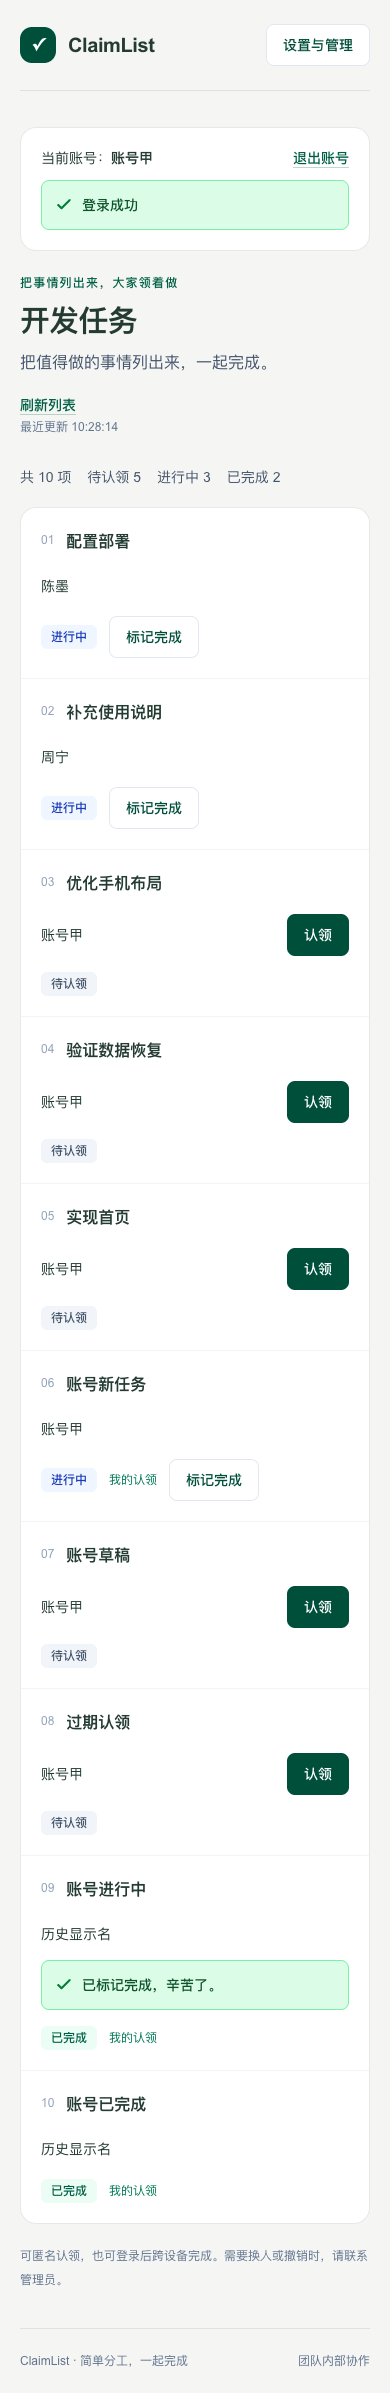
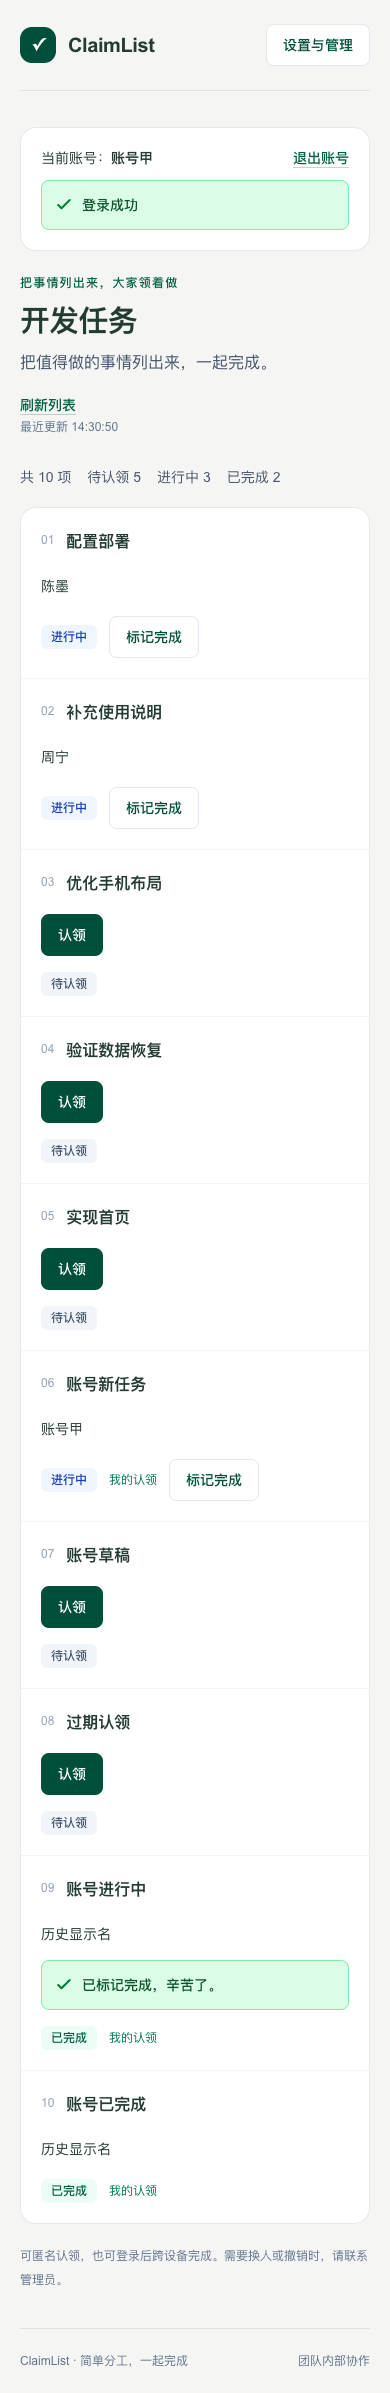
fix: 修复登录用户后待认领任务也显示自己的名字可能产生误解的问题

diff --git a/src/components/public-list.tsx b/src/components/public-list.tsx
@@ -212,11 +212,7 @@ export function PublicList() {
                           void act("claim", item.id);
                         }}
                       >
-                        {data.participant ? (
-                          <p className="min-w-0 flex-1 self-center text-sm break-words">
-                            {data.participant.name}
-                          </p>
-                        ) : (
+                        {!data.participant && (
                           <input
                             aria-label={`认领 ${item.title} 的姓名`}
                             placeholder="填写你的姓名"

diff --git a/docs/pages-and-states.md b/docs/pages-and-states.md
@@ -23,16 +23,18 @@
 
 列表先展示未完成条目，再展示已完成条目，两组内各按录入顺序排列。标记完成成功后立即沉入底部的已完成区域；管理员重新打开或释放认领后，条目回到未完成区域的原录入位置。管理页现有条目使用同一排序。
 
-| 状态                   | 页面显示                                         | 可执行的操作                         |
-| ---------------------- | ------------------------------------------------ | ------------------------------------ |
-| 加载中                 | 加载提示                                         | 等待或失败后重试，不提前显示空清单   |
-| 无条目                 | “暂无条目，管理员可通过右上角设置添加”           | 打开设置                             |
-| 待认领                 | 标题、匿名时姓名输入框／登录时账号姓名、“待认领” | 匿名填写姓名／登录后直接确认认领     |
-| 进行中且符合完成条件   | 标题、认领人、“进行中”                           | 标记完成                             |
-| 进行中但不符合完成条件 | 标题、认领人、“进行中”                           | 仅查看，不显示完成按钮或常驻权限提示 |
-| 已完成                 | 标题、认领人、“已完成”                           | 查看                                 |
+| 状态                   | 页面显示                                           | 可执行的操作                         |
+| ---------------------- | -------------------------------------------------- | ------------------------------------ |
+| 加载中                 | 加载提示                                           | 等待或失败后重试，不提前显示空清单   |
+| 无条目                 | “暂无条目，管理员可通过右上角设置添加”             | 打开设置                             |
+| 待认领                 | 标题、匿名时姓名输入框／登录时仅认领按钮、“待认领” | 匿名填写姓名／登录后直接确认认领     |
+| 进行中且符合完成条件   | 标题、认领人、“进行中”                             | 标记完成                             |
+| 进行中但不符合完成条件 | 标题、认领人、“进行中”                             | 仅查看，不显示完成按钮或常驻权限提示 |
+| 已完成                 | 标题、认领人、“已完成”                             | 查看                                 |
 
 认领步骤：匿名填写姓名／登录后使用账号姓名 → 点击认领 → 弹窗显示认领姓名与条目标题，二次确认后提交 → 服务器检查状态并记录姓名、IP、UUID 及适用的账号 ID → 成功后显示进行中。匿名姓名为空时在输入位置提示，不提交无效认领；取消确认不发送操作请求，保留姓名草稿。
+
+登录后，待认领条目的认领人区域仅显示“认领”按钮，不预先展示自己的姓名；姓名在确认弹窗中核对，认领成功后才作为该条目的认领人展示。
 
 完成步骤：点击标记完成 → 弹窗显示条目标题，二次确认后提交；取消则保持原状态 → 服务器检查条目归属：未绑定账号时匹配 IP 或 UUID，已绑定时验证对应账号会话 → 成功后显示已完成。前端按钮状态只是操作引导，不能代替服务端检查，也不能通过返回他人的 IP 或 UUID 来判断权限。
 

diff --git a/docs/verification.md b/docs/verification.md
@@ -107,6 +107,10 @@
 
 `pnpm check`、`pnpm build`、`PLAYWRIGHT_CHANNEL=chrome pnpm test:e2e`（3 组）通过。浏览器测试断言认领及完成的弹窗文案、取消时没有操作请求、姓名和状态保留，以及确认后的匿名认领、账号认领、跨设备完成、管理员代为完成和并发认领冲突处理。使用隔离数据库，未修改实际任务；页面布局未改变，原生弹窗内容通过 Playwright dialog 事件验证。
 
+### 登录后待认领条目展示（2026-09-30）
+
+待认领条目不再预先展示当前账号姓名，认领人区域仅显示“认领”按钮；确认弹窗仍展示账号姓名，认领成功后再显示实际认领人。`pnpm check`、`pnpm build` 和 3 组浏览器流程通过，覆盖待认领时无姓名、弹窗姓名正确及成功后姓名出现。已核对 [桌面待认领截图](screenshots/account-unclaimed.png) 和更新后的 [账号手机清单](screenshots/account-mobile.png)。
+
 ## Docker 交付验收（2026-09-30）
 
 在 Colima / Docker Engine 29.5.2、Compose 5.5.1 的 Linux arm64 环境构建 `claimlist:local`，Node.js 22.23.1、pnpm 11.9.0。多阶段生产构建和原生 SQLite 安装成功；镜像仅保留生产依赖，维护命令不在运行时安装依赖。其他 CPU 架构未在本次实测。
